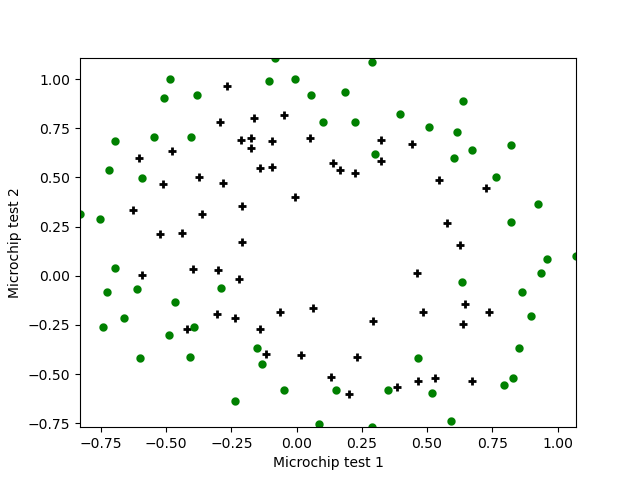
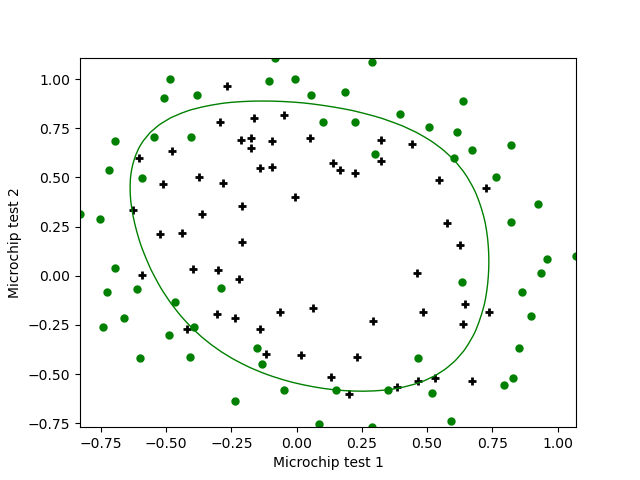
Terminado codigo de la p1 y p2

diff --git a/p2/p2_2.py b/p2/p2_2.py
@@ -1,13 +1,9 @@
-
+#%%
 import numpy as np
 import matplotlib.pyplot as plt
-from numpy.lib import polynomial
 import scipy.optimize as opt
 import math
 import sklearn.preprocessing as sp
-from mpl_toolkits.mplot3d import Axes3D
-from matplotlib import cm
-from matplotlib.ticker import LinearLocator, FormatStrFormatter
 from pandas.io.parsers import read_csv
 
 # Calcula la funcion sigmoide 
@@ -16,18 +12,14 @@ def sigmoide(z):
 
 # 2.2 Calcula el coste (regularizado)
 def coste(theta, X, Y ,_lambda):
-    H = sigmoide(np.matmul(X,theta)) # dot?
+    H = sigmoide(np.matmul(X,theta)) 
     m = np.shape(X)[0]
-    #esto funciona por el tamaño de las matrices. usamos la formula con las traspuestas
-    #coste = (-1 / m) * (np.dot(Y, np.log(H)) + np.dot((1-Y),np.log(1 - H)))
-    
+    # usamos la formula con las traspuestas
     coste = (- 1 / (len(X))) * np.sum( Y * np.log(H) + (1 - Y) * np.log(1 - H) )
 
     regularizacion = (_lambda /(2+m) ) * np.sum(np.power(theta,2))
     coste += regularizacion
     return coste
-
-
 
 # 2.2 Calcula el gradiente (regularizado)
 def gradiente(Theta, X, Y, _lambda):
@@ -36,94 +28,49 @@ def gradiente(Theta, X, Y, _lambda):
 
     return (1/m) * np.matmul(np.transpose(X), H - Y) + ((_lambda / m ) * Theta)
 
-# #Devuelve el theta que buscamos
-# def descenso_gradiente(X,Y,Theta):
-#     costes = np.zeros(10)    
-#     for a in range(10):
-#         Theta=gradiente(Theta, X,Y)
-#         costes[a]=coste(Theta, X,Y)   
-#     return Theta
+# Pinta la grafica con la frontera de decision
+def plot_decisionboundary(X, Y, theta, name):
 
-
-
-
-def plot_decisionboundary(X, Y, theta, poly):
-    #plt.figure()
     x1_min, x1_max = np.min(X[:, 0]), np.max(X[:, 0])#min y max de x1
     x2_min, x2_max = np.min(X[:, 1]), np.max(X[:, 1])#min y max de x2
     xx1, xx2 = np.meshgrid(np.linspace(x1_min, x1_max), np.linspace(x2_min, x2_max))
-    #poly=sp.PolynomialFeatures(6)
-    #
-    #h = sigmoide(np.dot(np.c_[np.ones((np.ravel(xx1).shape[0], 1)), np.ravel(xx1), np.ravel(xx2 )],theta))
-    # print(np.shape(aux))
-    # print(np.shape(theta))
-    h = sigmoide(np.dot(poly.fit_transform(np.c_[np.ravel(xx1),np.ravel(xx2 )]) ,theta))
+    poly = sp.PolynomialFeatures(6)   
+    
+    h=sigmoide(poly.fit_transform(np.c_[xx1.ravel(),xx2.ravel()]).dot(theta))
     h = np.reshape(h,np.shape(xx1))
     plt.contour(xx1, xx2, h, [0.5], linewidths=1, colors='g')
-    plt.savefig("prueba.png")
+    plt.savefig(name)
     plt.close()
 
-
-# def pinta_frontera(Theta, X, Y):
-#     #plt.figure()
-#     x1_min, x1_max = np.min(X[:, 1]), np.max(X[:, 1])#min y max de x1
-#     x2_min, x2_max = np.min(X[:, 2]), np.max(X[:, 2])#min y max de x2
-
-#     xx1, xx2 = np.meshgrid(np.linspace(x1_min, x1_max), np.linspace(x2_min, x2_max))
-
-#     #np.ones añade una columna de 1s
-#     h = sigmoide(np.dot(np.c_[np.ones((np.ravel(xx1).shape[0], 1)),
-#                  np.ravel(xx1), #vector columna
-#                 np.ravel(xx2 )],Theta))
-    
-#     h = np.reshape(h, np.shape(xx1))
-
-#     # el cuarto parámetro es el valor de z cuya frontera se quiere pintar
-#     plt.contour(xx1, xx2, h, [0.5], linewidths=1, colors='b')
-#     plt.savefig("frontera.png")
-#     plt.close()
 
 def main():
     valores = read_csv("ex2data2.csv", header=None).to_numpy()
     X = valores[:, :-1]
     Y = valores[:, -1]
-    n = np.shape(X)[1]  
+    n = np.shape(X)[1]
     m = np.shape(X)[0]
 
-    #apartado 2.1
-    poly = sp.PolynomialFeatures(6).fit_transform(X)
-    
-    #print(np.shape(X)[1])
-
-
-    #X=np.hstack([np.ones([m,1]), X])
-    #print(X)
+    # 2.1 Mapeo de Atributos
+    poly = sp.PolynomialFeatures(6).fit_transform(X)    
     Theta = np.zeros(np.shape(poly)[1])
-    print(np.shape(poly)[1])
-    print(np.shape(Theta))
 
-    # 2.1 Grafica de los valores
+    # 2.0 Grafica de los valores
     pos = np.where(Y == 1)
     plt.scatter(poly[pos, 1], poly[pos, 2], marker = '+', c='k', linewidths=2.0)
     pos = np.where(Y == 0)
     plt.scatter(poly[pos, 1], poly[pos, 2], marker = '.', c='green', linewidths=3.0)
     plt.xlabel('Microchip test 1')
-    plt.ylabel('Microchip test 2')
-
-    #plt.legend('Admitted')
+    plt.ylabel('Microchip test 2')    
     
-    #plt.show()  
-    #print(coste(Theta, X, Y, 1000))
-    #print(gradiente(Theta,X, Y, 1))
-    _lamda = 1000
+    # 2.3 Calculo de valor optimo
+    _lamda = 150
     result=opt.fmin_tnc(func=coste, x0 = Theta, fprime = gradiente, args=(poly, Y, _lamda))
     theta_opt = result[0]
 
-    #print(np.shape(theta_opt)[0])
-
-    plt.savefig("prueba.png")
-    plot_decisionboundary(X,Y,theta_opt, poly)
+    name = "Regularizacion{0}.png".format(_lamda)
+    #plt.savefig(name) # guarda el archivo sin frontera de decision
+    plot_decisionboundary(X,Y,theta_opt, name)
 
    
-
 main()
+# %%

diff --git a/p2/p2_1.py b/p2/p2_1.py
@@ -1,11 +1,8 @@
-
+#%%
 import numpy as np
 import matplotlib.pyplot as plt
 import scipy.optimize as opt
 import math
-from mpl_toolkits.mplot3d import Axes3D
-from matplotlib import cm
-from matplotlib.ticker import LinearLocator, FormatStrFormatter
 from pandas.io.parsers import read_csv
 
 # 1.2 Calcula la funcion sigmoide 
@@ -26,16 +23,9 @@ def gradiente(Theta, X, Y):
     H = sigmoide(np.matmul(X, Theta))
     return (1/len(X)) * np.matmul(np.transpose(X), H - Y)
 
-# #Devuelve el theta que buscamos
-# def descenso_gradiente(X,Y,Theta):
-#     costes = np.zeros(10)    
-#     for a in range(10):
-#         Theta=gradiente(Theta, X,Y)
-#         costes[a]=coste(Theta, X,Y)   
-#     return Theta
+# Pinta la frontera 
+def pinta_frontera(Theta, X):
 
-def pinta_frontera(Theta, X, Y):
-    #plt.figure()
     x1_min, x1_max = np.min(X[:, 1]), np.max(X[:, 1])#min y max de x1
     x2_min, x2_max = np.min(X[:, 2]), np.max(X[:, 2])#min y max de x2
 
@@ -53,14 +43,35 @@ def pinta_frontera(Theta, X, Y):
     plt.savefig("frontera.png")
     plt.close()
 
+# Calcula el porcentaje de casos evaluados correctamente
+def evaluacion_reg_logisitica(X, Y ,theta):  
+    
+    h = sigmoide(np.matmul(X,theta))
+
+    #calcular aprobados
+    apr_calculado = np.where(h >= 0.5)
+    apr_real = np.where(Y == 1.0)
+    apr_aux =np.in1d(apr_real, apr_calculado)
+    apr_tmp = np.where(apr_aux == True)
+
+    #calcular suspensos
+    sus_calculado = np.where(h < 0.5)
+    sus_real = np.where(Y != 1.0)
+    sus_aux=np.in1d(sus_real, sus_calculado)
+    sus_tmp = np.where(sus_aux == True)  
+
+    total = np.shape(apr_tmp)[1] + np.shape(sus_tmp)[1]
+    print(total/len(Y))
+
+
+
 def main():
     valores = read_csv("ex2data1.csv", header=None).to_numpy()
     X = valores[:, :-1]
     Y = valores[:, -1]
     m = np.shape(X)[0]
-    #print(X)
+
     X=np.hstack([np.ones([m,1]), X])
-    #print(X)
     Theta = np.zeros(np.shape(X)[1])
     print(np.shape(X)[1])
     print(np.shape(Theta))
@@ -72,20 +83,13 @@ def main():
     plt.scatter(X[pos, 1], X[pos, 2], marker = '.', c='green', linewidths=3.0)
     plt.ylabel('Exam 2 score')
     plt.xlabel('Exam 1 score')
-
-    #plt.legend('Admitted')
     
-    #plt.show()  
-    plt.savefig("frontera.png")
-
-    #print(coste(Theta,X,Y))
-    #print(gradiente(Theta, X, Y))
     result=opt.fmin_tnc(func=coste, x0 = Theta, fprime = gradiente, args=(X, Y))
     
-    #print(np.shape(result))
     theta_opt = result[0]
-    pinta_frontera(theta_opt, X, Y)
-    print(theta_opt)
-    print(coste(theta_opt,X, Y))
+    pinta_frontera(theta_opt, X)   
+    evaluacion_reg_logisitica(X, Y, theta_opt)
+
 
 main()
+# %%
